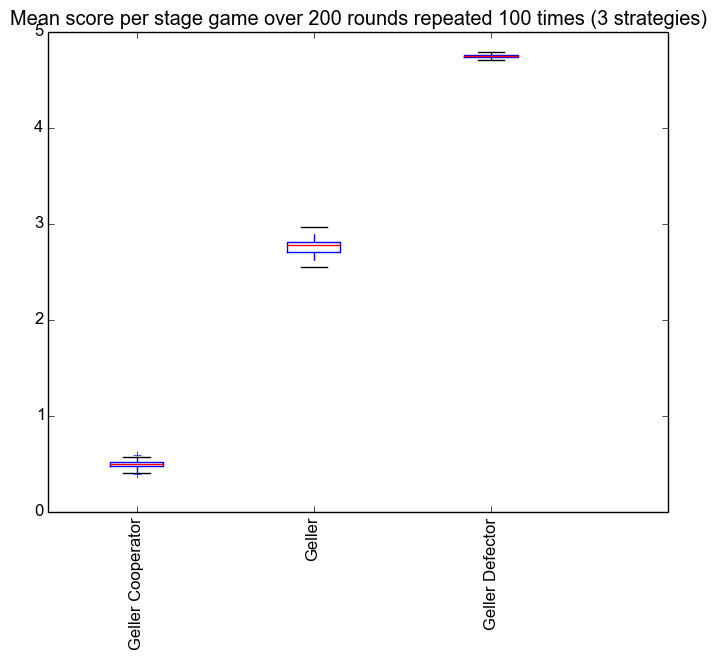
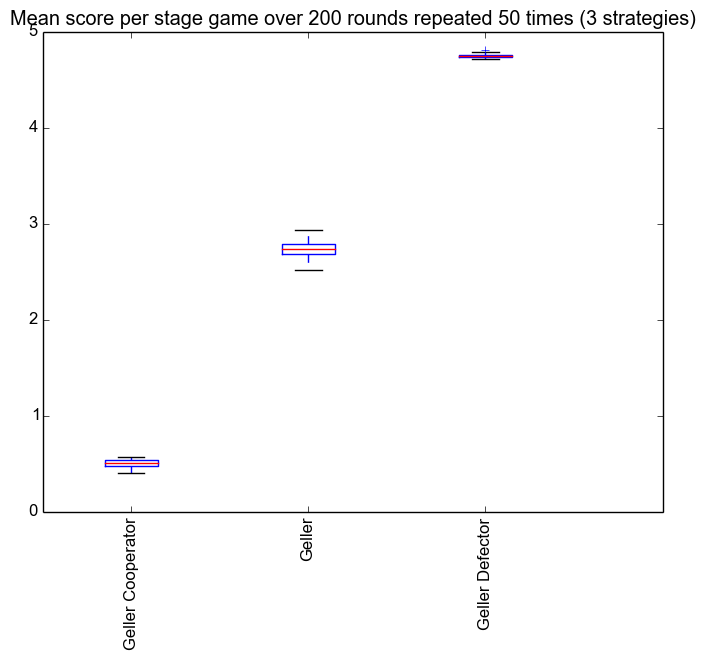
Updated tests

diff --git a/axelrod/tests/test_oncebitten.py b/axelrod/tests/test_oncebitten.py
@@ -73,13 +73,12 @@ class TestFoolMeOnce(unittest.TestCase):
         If opponent defects at any point then the player will defect forever
         """
         P1 = axelrod.FoolMeOnce()
-        P2 = axelrod.Cooperator()
+        P2 = axelrod.Defector()
         P1.history = ['C']
-        P2.history = ['C']
-        self.assertEqual(P1.strategy(P2), 'C')        
-        P2.history.append('D')
-        self.assertEqual(P1.strategy(P2), 'D')
-        P2.history.append('C')
+        P2.history = ['D']
+        self.assertEqual(P1.strategy(P2), 'C')
+        P1.history = ['C']
+        P2.history = ['D']
         self.assertEqual(P1.strategy(P2), 'D')
 
     def test_representation(self):
@@ -89,7 +88,6 @@ class TestFoolMeOnce(unittest.TestCase):
     def test_stochastic(self):
         self.assertFalse(axelrod.FoolMeOnce().stochastic)
 
-
 class TestForgetfulFoolMeOnce(unittest.TestCase):
 
     def test_initial(self):
@@ -97,25 +95,10 @@ class TestForgetfulFoolMeOnce(unittest.TestCase):
         P2 = axelrod.Player()
         self.assertEqual(P1.strategy(P2), P1._initial)
 
-    def test_strategy(self):
-        """
-        If opponent defects at any point then the player will defect forever
-        """
-        P1 = axelrod.FoolMeOnce()
-        P2 = axelrod.Cooperator()
-        P1.history = ['C']
-        P2.history = ['C']
-        self.assertEqual(P1.strategy(P2), 'C')        
-        P2.history.append('D')
-        P2.history.append('D')
-        self.assertEqual(P1.strategy(P2), 'D')
-        P2.history.append('C')
-        self.assertEqual(P1.strategy(P2), 'D')
-
     def test_representation(self):
         P1 = axelrod.ForgetfulFoolMeOnce()
         self.assertEqual(str(P1), 'Forgetful Fool Me Once')
 
     def test_stochastic(self):
-        self.assertFalse(axelrod.ForgetfulFoolMeOnce().stochastic)
+        self.assertTrue(axelrod.ForgetfulFoolMeOnce().stochastic)
 

diff --git a/run_tournament.py b/run_tournament.py
@@ -10,7 +10,7 @@ import axelrod
 import matplotlib.pyplot as plt
 from numpy import median
 
-def run_tournament(turns=200, repetitions=100):
+def run_tournament(turns=200, repetitions=50):
 
     strategies = [strategy() for strategy in axelrod.strategies]
     cheating_strategies = [strategy() for strategy in axelrod.cheating_strategies]

diff --git a/axelrod/strategies/oncebitten.py b/axelrod/strategies/oncebitten.py
@@ -77,7 +77,7 @@ class ForgetfulFoolMeOnce(Player):
     Forgives one D then retaliates forever on a second D. Sometimes randomly forgets the defection count.
     """
 
-    name = 'Fool Me Once'
+    name = 'Forgetful Fool Me Once'
 
     def __init__(self, forget_probability=0.1):
         super(ForgetfulFoolMeOnce, self).__init__()
